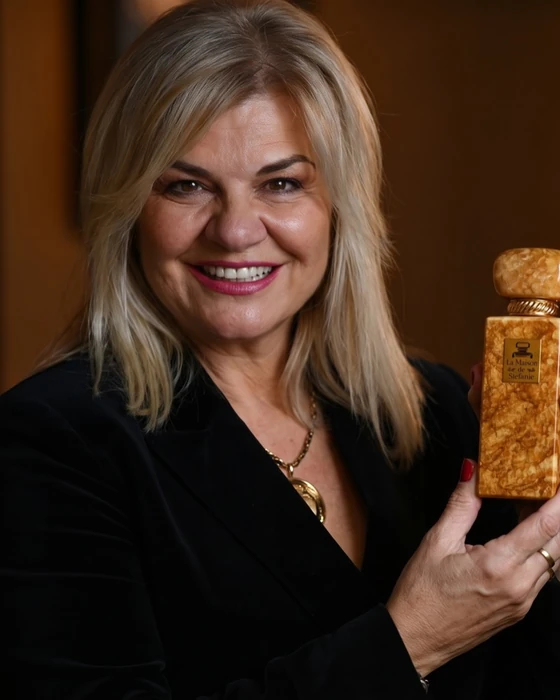
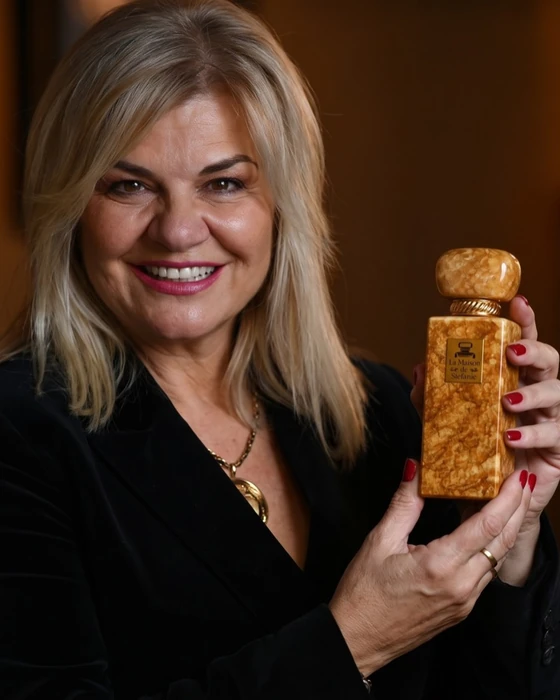
The flacon was being cut by the crop, not by the layout
Her bottle sits at x 740-880 in the original photograph, with her
fingers round it out to about 900. The 751-wide window the site
inherited ran 98-849, so a quarter of the flacon and two of her
fingertips were outside the frame before any CSS touched the file. The
home page and the Story page both serve that same crop, which is why it
was cut in both places.

The window is 175-926 now: the same 751 wide, moved along so the bottle
and her hand are whole. It loses a little hair on the left, which runs
off frame the way hair does.

On a phone the figure was also boxed at 3/4. The photograph is 4/5, so
cover was shaving twelve pixels off each side — and the bottle is at the
very edge, so those were the twelve pixels that mattered. The frame
keeps the photograph's own proportion now. Measured crop: 0.0% on a wide
screen, 0.1% on a phone.

And on a phone the words under her are centred — the eyebrow with its
rule, the quote, her signature, the line beneath. The section below this
one is centred on a phone too, so it now reads as one column rather than
one centred block under one ragged one. A wide screen keeps them
left-aligned, because there the photograph stands beside them and they
share its edge.

Checked while in here: nothing is left permanently under the bottom dock
at the foot of any page.

Claude-Session: https://claude.ai/code/session_016VvW6dYNVyxhhidntgnKBu

diff --git a/assets/site.css b/assets/site.css
@@ -799,10 +799,16 @@ blockquote{margin:0}
 .herword .byline .sig{font-size:1.46rem}
 .herword .body{max-width:44ch;margin-bottom:var(--s6)}
 @media (max-width:899px){
-  /* on a phone she comes first and the words sit under her, which is
-     the order the page is read in anyway */
-  .herword .portrait-fig{aspect-ratio:3/4;margin-bottom:var(--s5)}
-  .herword .pull-q{max-width:22ch}
+  /* On a phone she comes first and the words sit under her, centred on
+     the column the way the section below this one is — and the frame
+     keeps the photograph's own proportion, because a 3/4 box took
+     twelve pixels off each side and the flacon is at the very edge.
+     Nothing here crops anything. */
+  .herword .portrait-fig{margin-bottom:var(--s6)}
+  .herword .split > div{text-align:center}
+  .herword .lab{justify-content:center}
+  .herword .pull-q{max-width:20ch;margin-inline:auto}
+  .herword .body{margin-inline:auto}
 }
 
 /* ── 15. THE SESSION ───────────────────────────────────────── */

diff --git a/tools/portrait.py b/tools/portrait.py
@@ -19,9 +19,13 @@ ROOT = os.path.dirname(os.path.dirname(os.path.abspath(__file__)))
 SRC = os.path.join(ROOT, 'tools', 'supplied', 'stefanie-portrait.jpg')
 OUT = os.path.join(ROOT, 'assets', 'img')
 
-# the window, found by matching against the crop already in the site so
-# the picture does not move when it is re-cut
-BOX = (98, 0, 849, 939)
+# In the original she is at x 230-620 and the flacon she is holding runs
+# from 740 to 880, with her fingers round it to about 900. The window the
+# site inherited was 98-849, which cut the flacon — a quarter of it and
+# two of her fingertips were outside the frame. 175-926 is the same 751
+# wide, moved along so the bottle and her hand are whole; it loses a
+# little hair on the left, which runs off frame the way hair does.
+BOX = (175, 0, 926, 939)
 WIDTHS = (560, 751)
 QUALITY = 90
 
